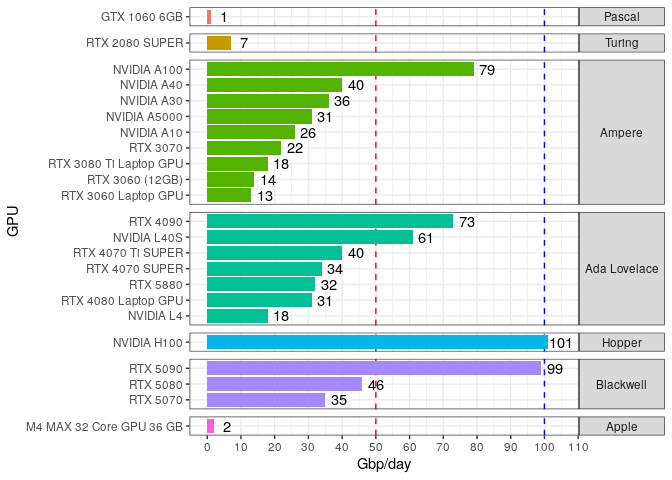
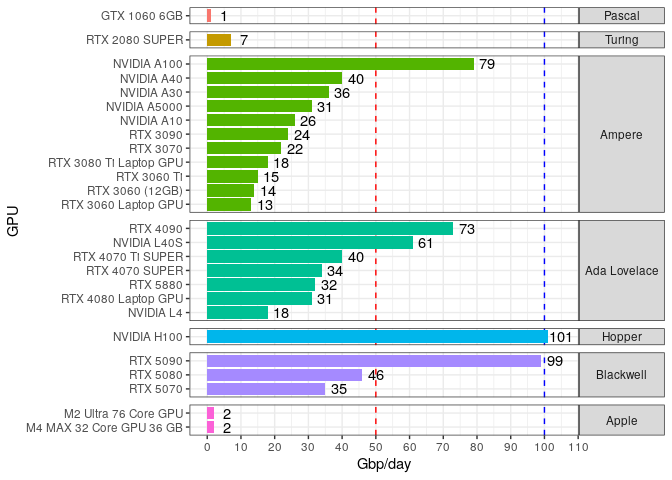
added M2, 3060 and 3090

diff --git a/README.md b/README.md
@@ -1,7 +1,7 @@
 README
 ================
 Rasmus Kirkegaard
-17 April, 2025
+18 April, 2025
 
 ## Aim
 
